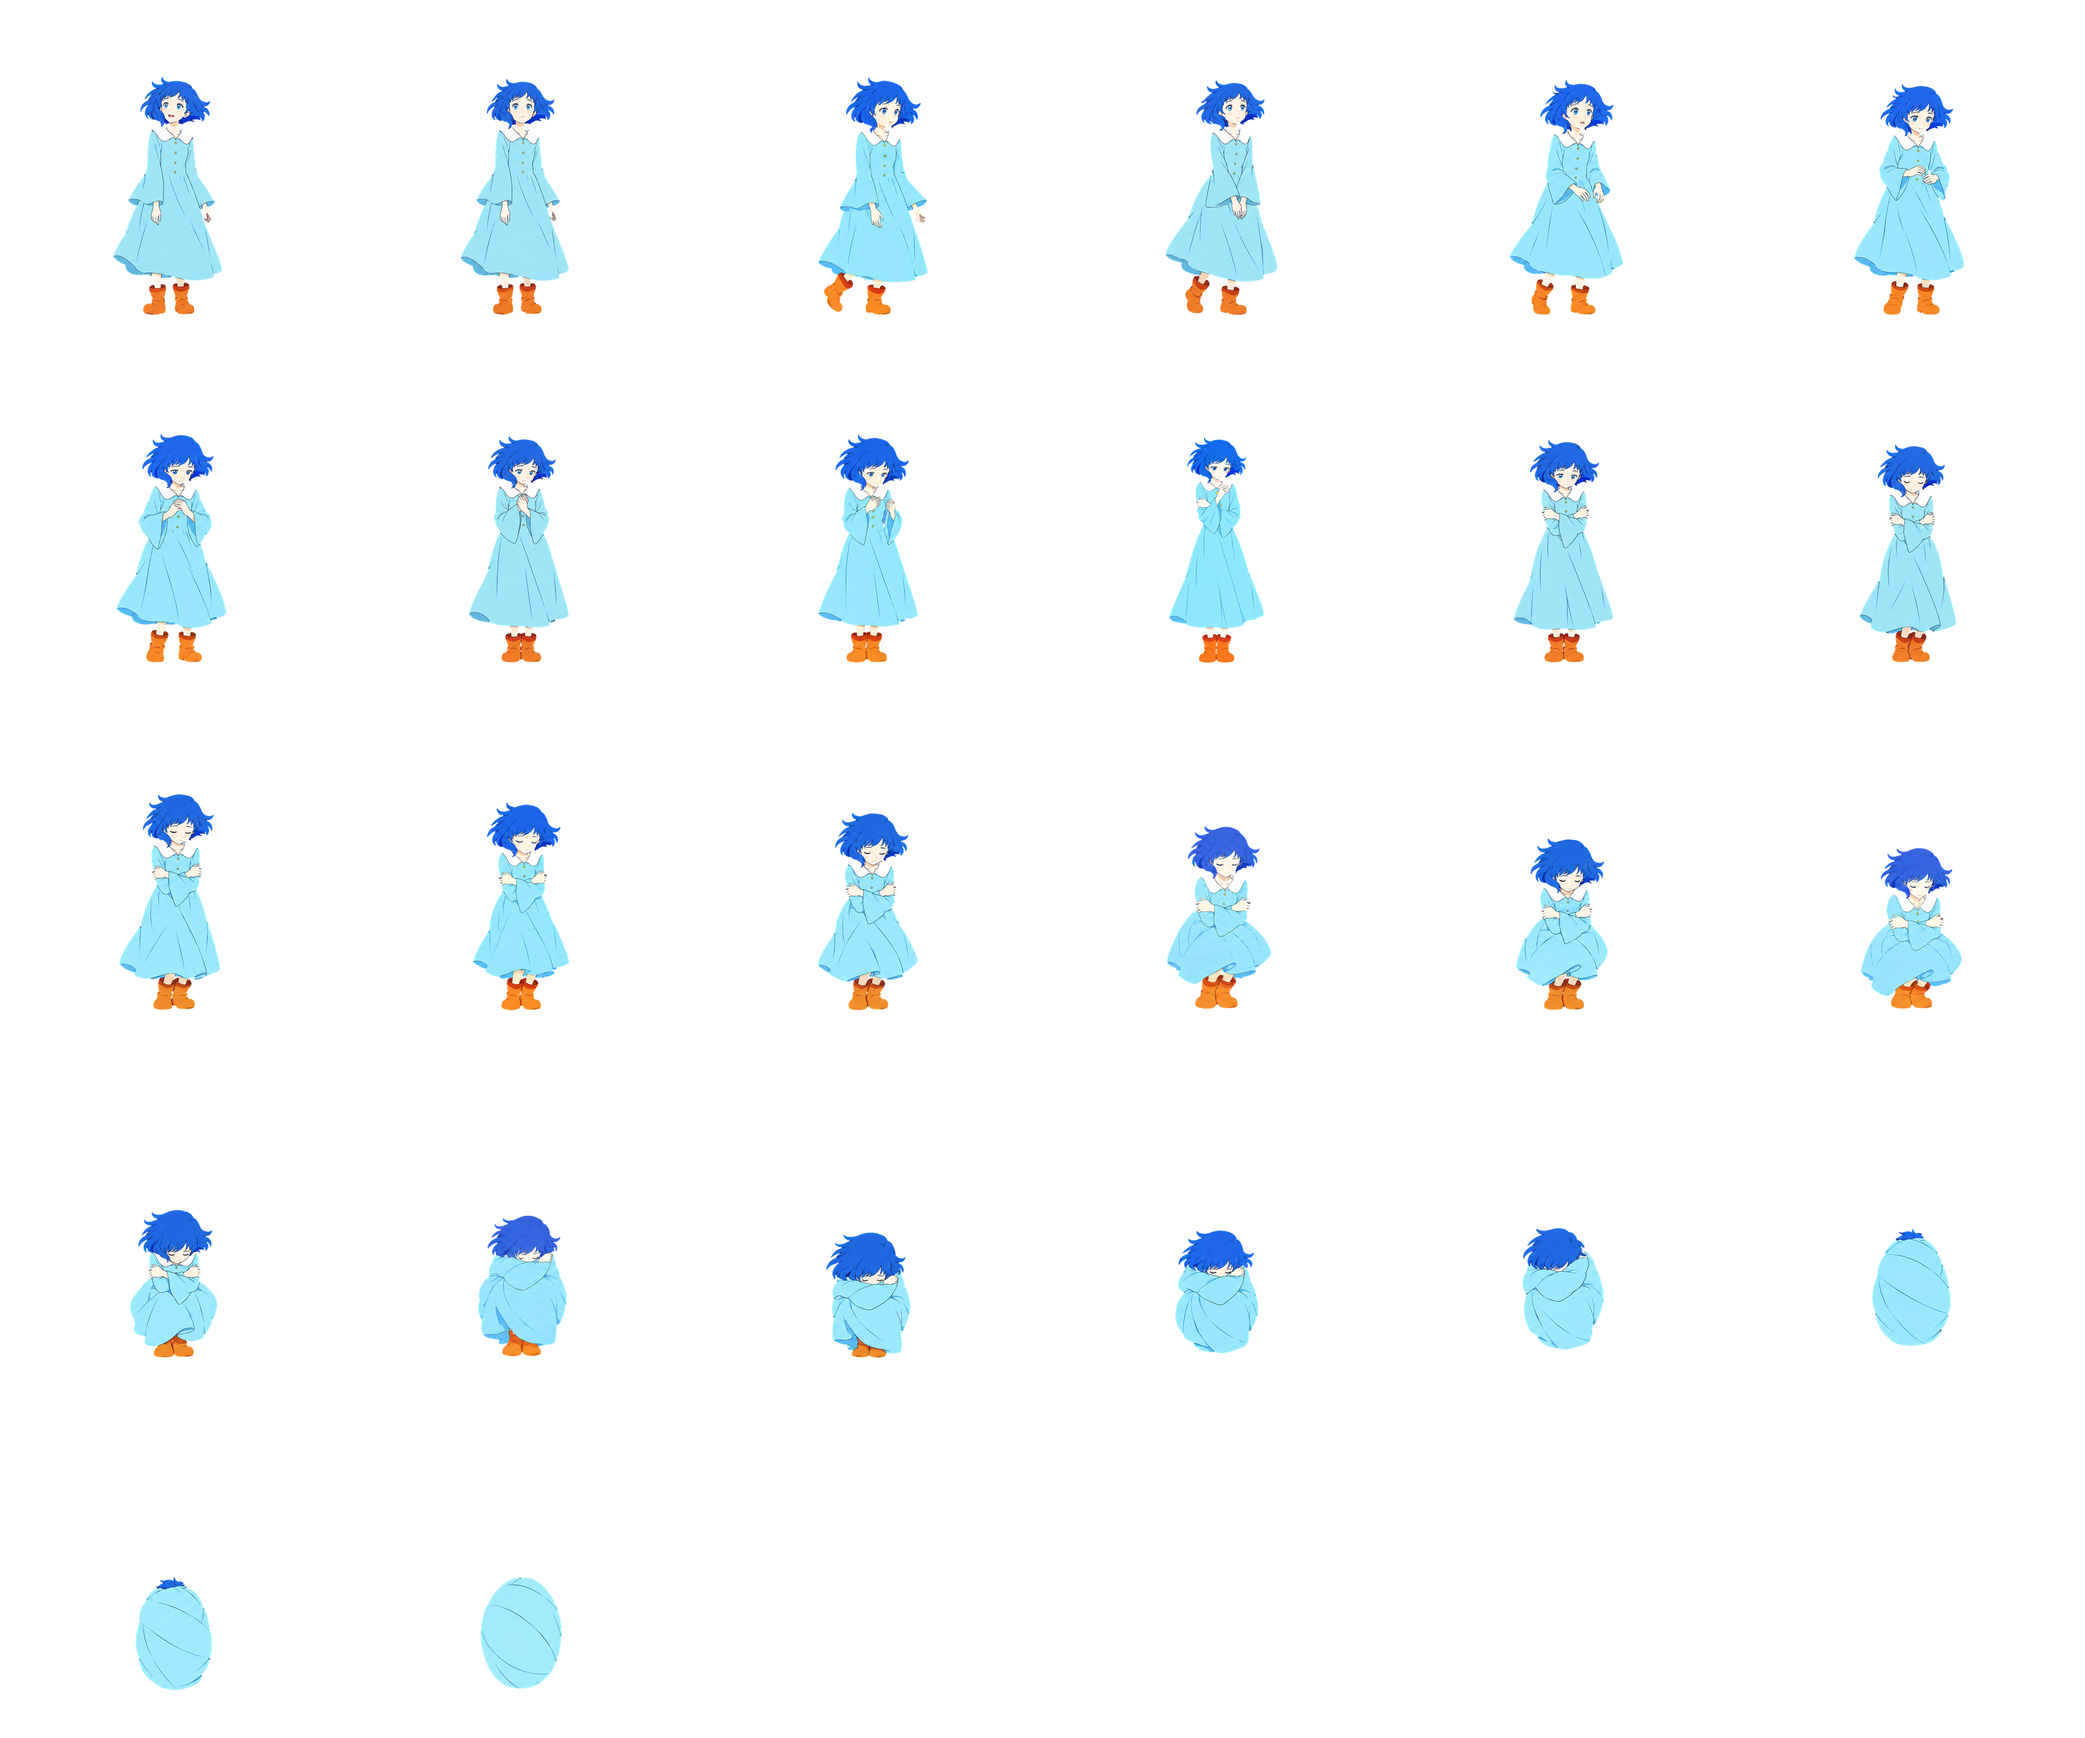
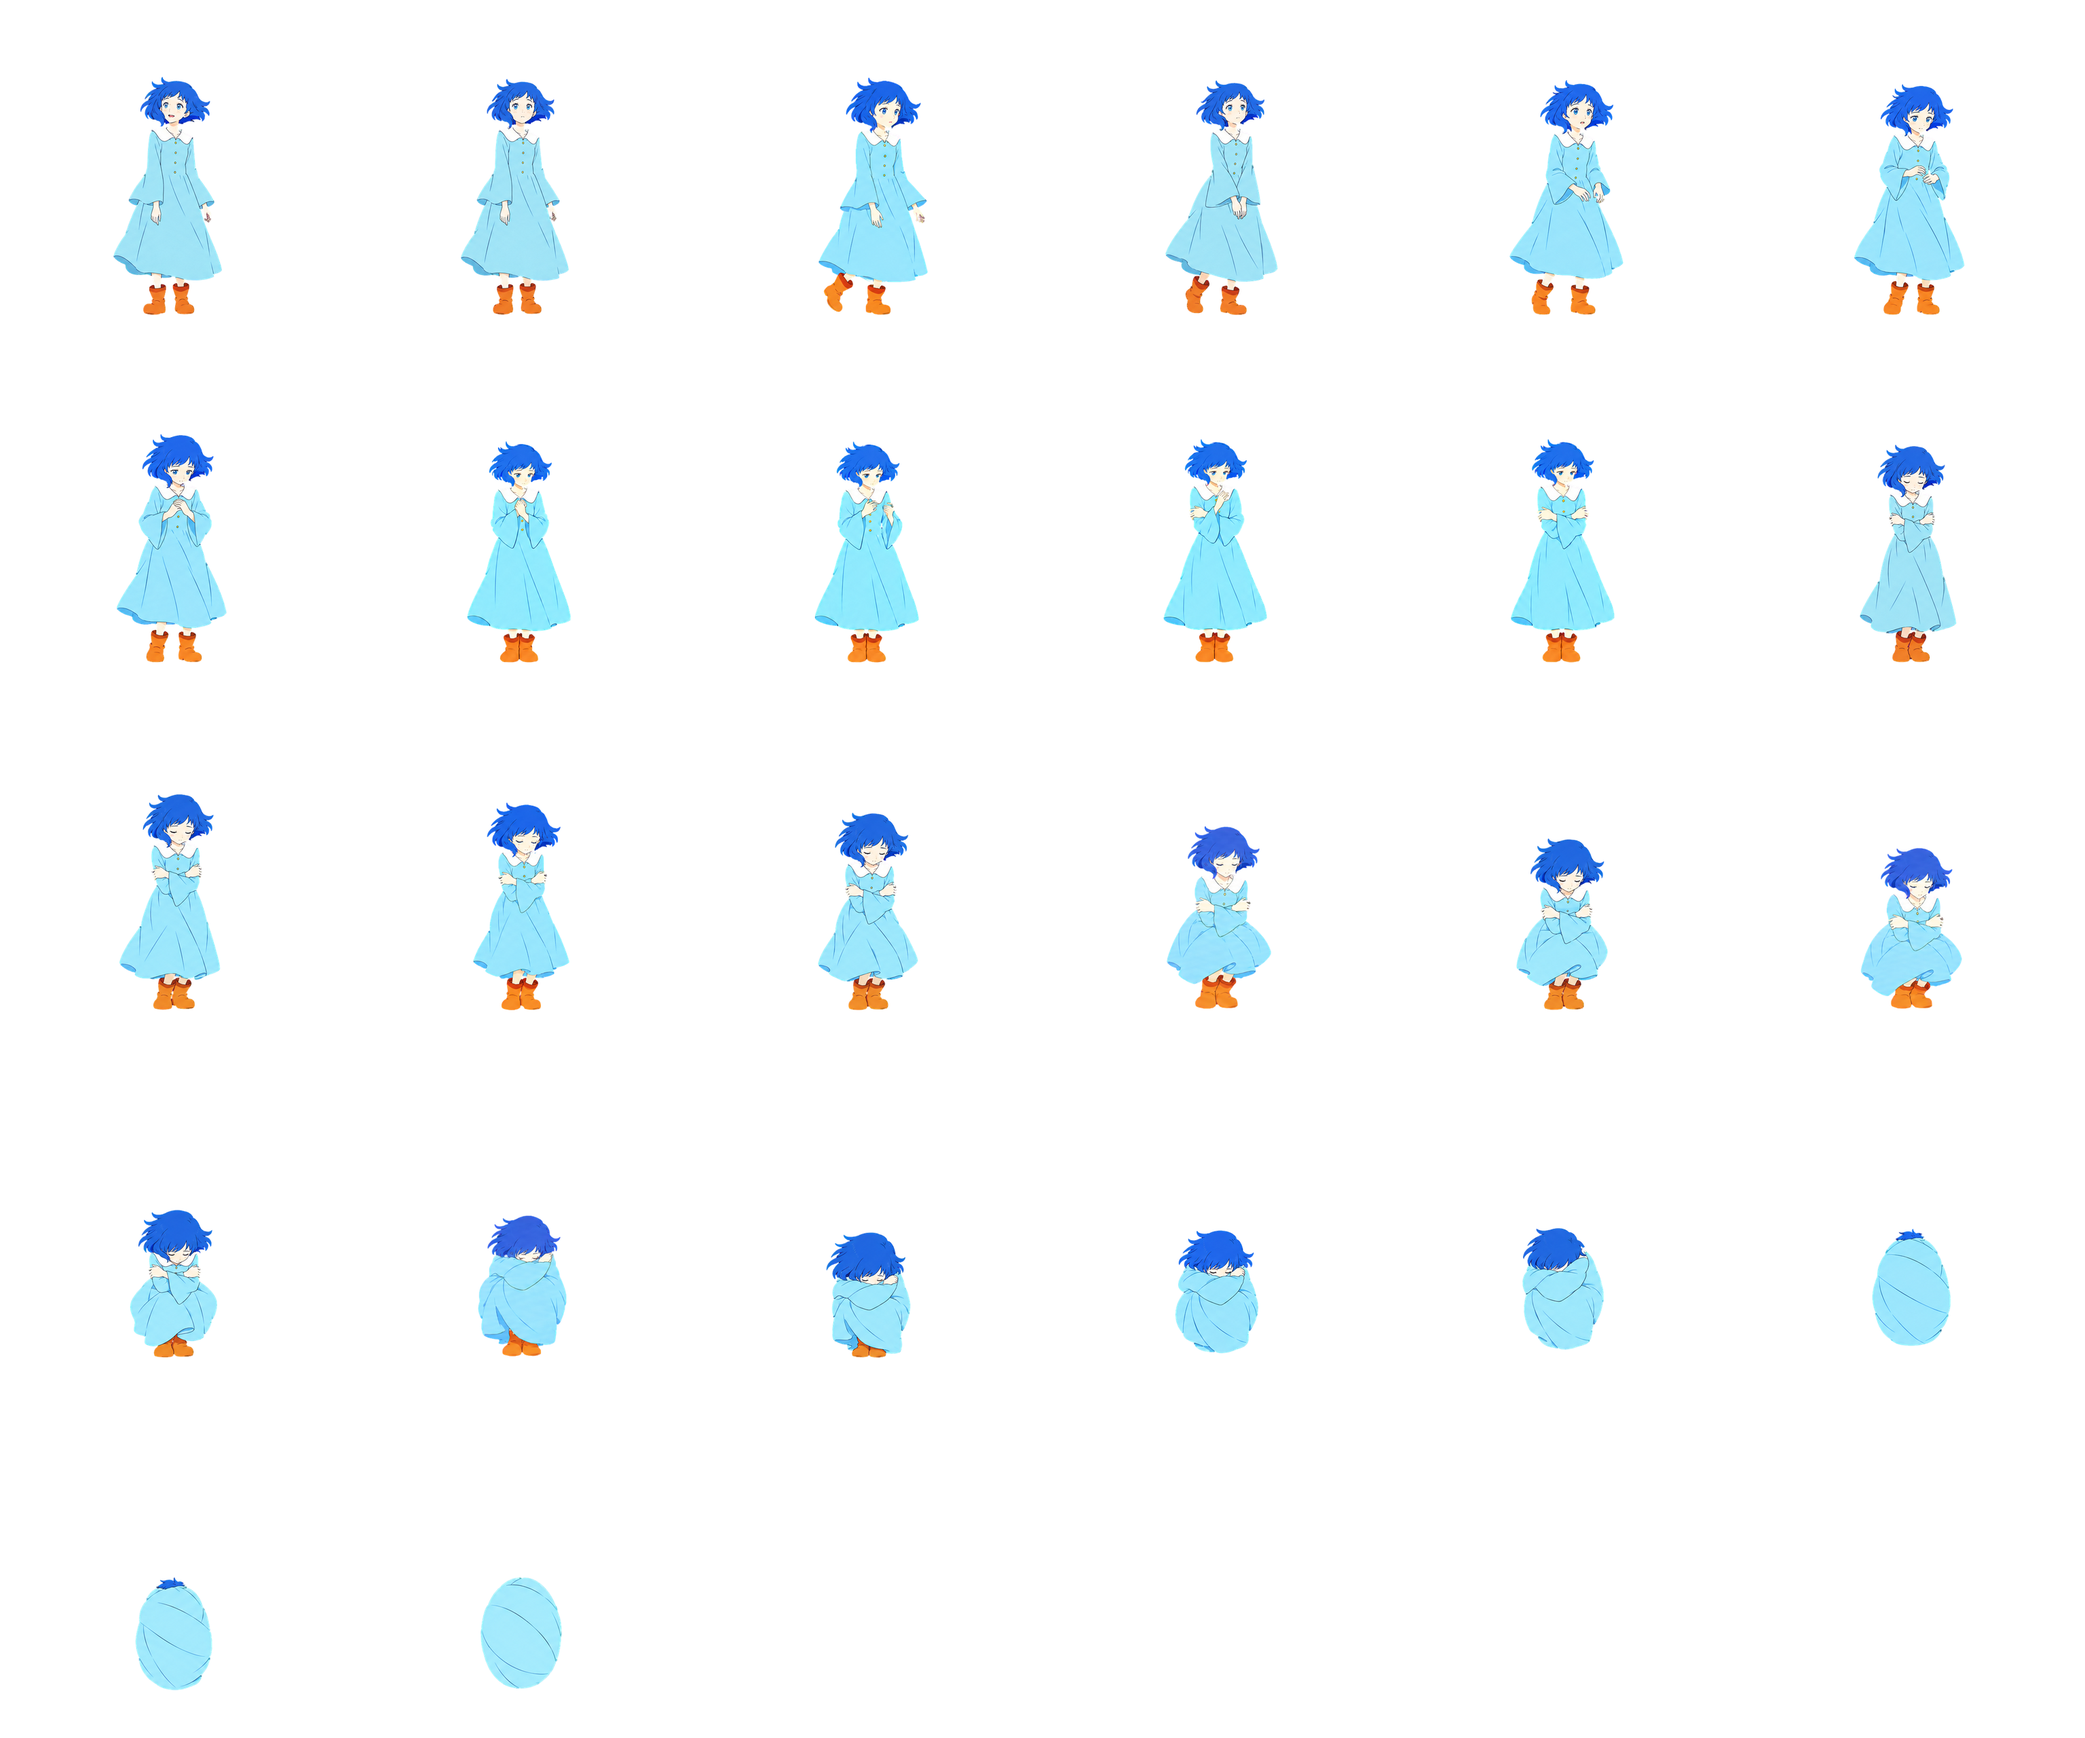
fix(loading): 统一收臂原画的头脸与服装结构

diff --git a/tool/test_build_288_refresh_preview.py b/tool/test_build_288_refresh_preview.py
@@ -78,6 +78,15 @@ class RefreshAnimationSequenceTest(unittest.TestCase):
             for neighbor in (left, right):
                 self.assertFalse(np.array_equal(np.asarray(self.frames[middle]), np.asarray(self.frames[neighbor])))
         self.assertLessEqual(self.phases.count("human_0") + self.phases.count("human_1"), 12)
+        # 收臂主要改变手的位置，不能让交叉手臂那张的头部突然缩小。
+        head_widths = []
+        for phase in ("human_6", "human_hands_separate", "human_arms_cross", "human_7"):
+            rgba = np.asarray(self.frames[self.phases.index(phase)]).astype(np.int16)[110:210]
+            red, green, blue, alpha = np.moveaxis(rgba, 2, 0)
+            _, xs = np.where((blue - red > 75) & (green < 155) & (alpha > 200))
+            self.assertGreater(len(xs), 100, phase)
+            head_widths.append(int(np.ptp(xs)) + 1)
+        self.assertLessEqual(np.ptp(head_widths), 4, head_widths)
 
     def test_no_frame_is_blank_or_cut_by_the_canvas(self) -> None:
         for index, frame in enumerate(self.frames):
